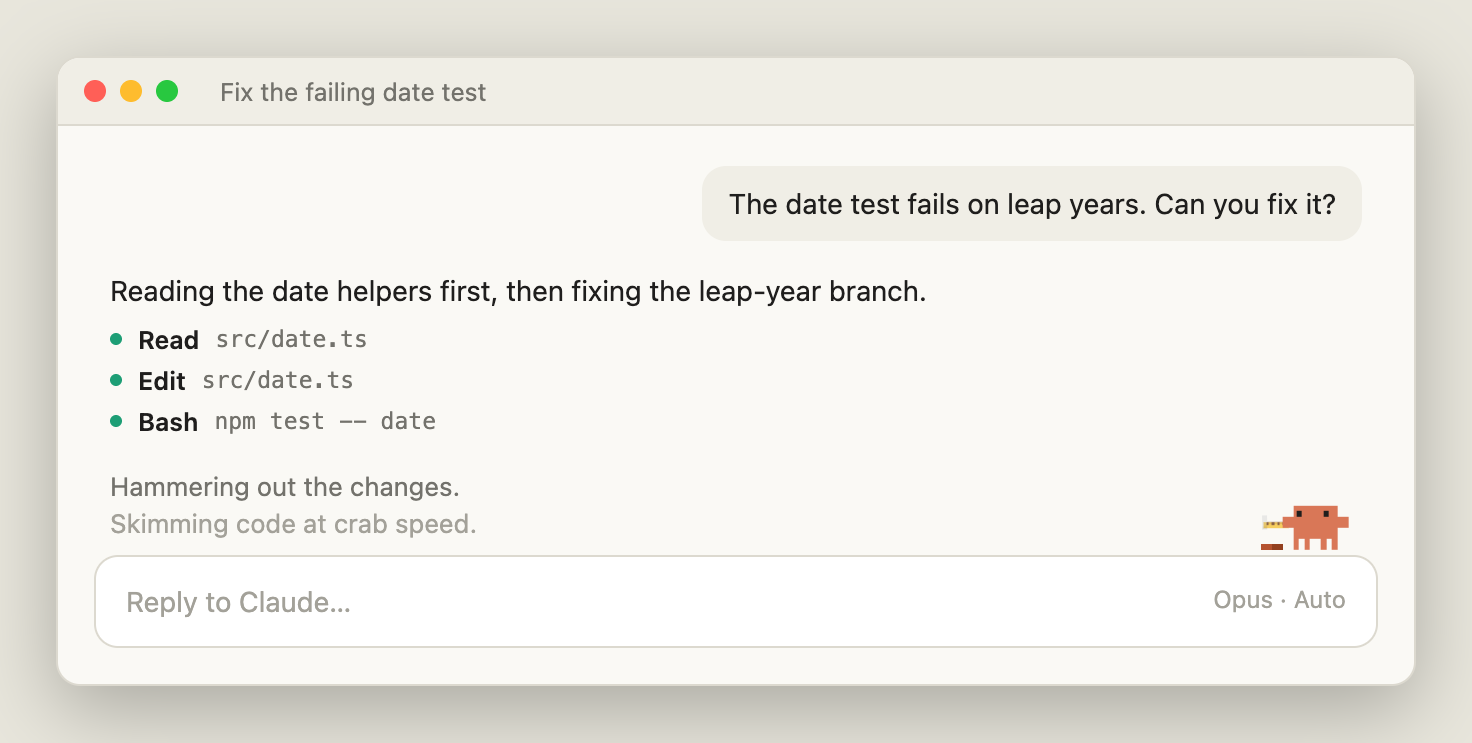
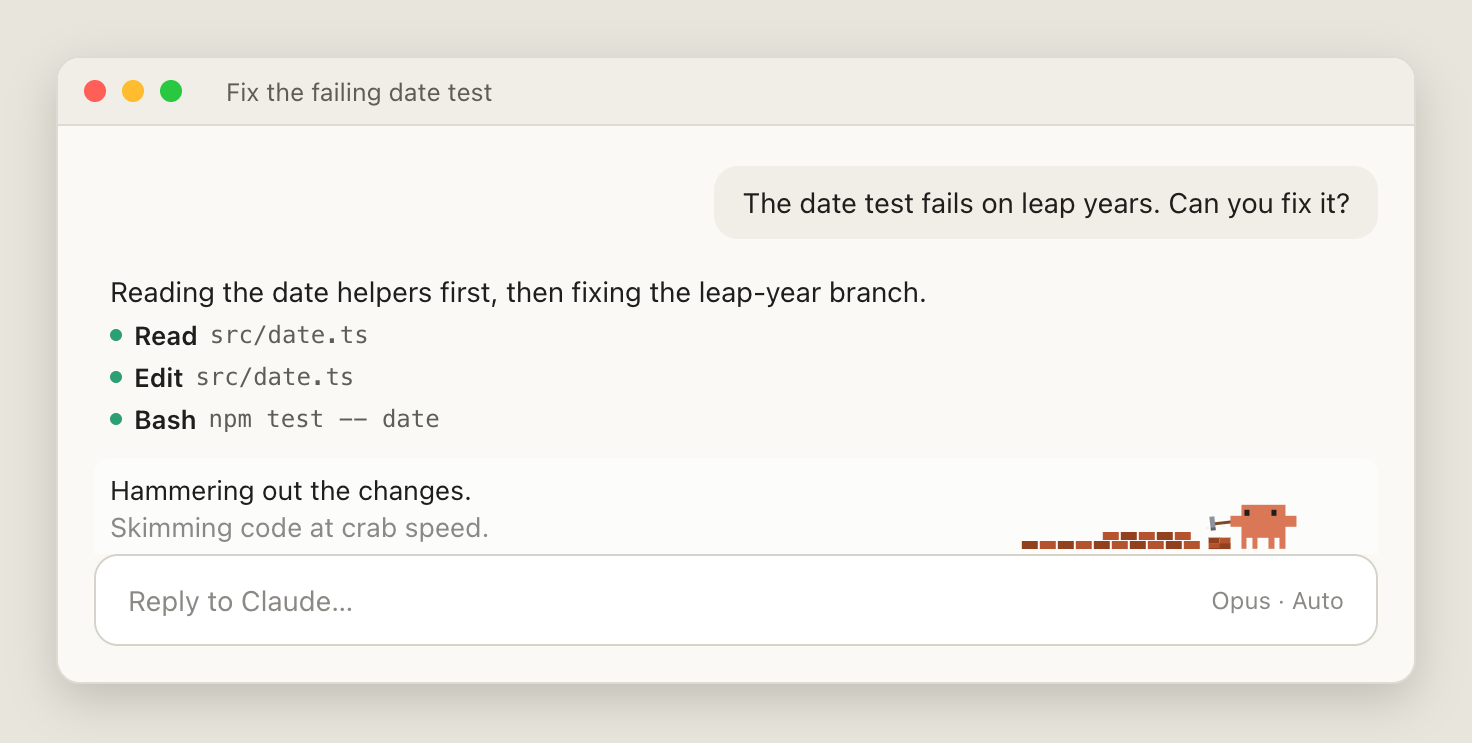
README shots for 0.9.5: the crab on its stage, two-tone caption
The hero is an animated PNG again (80 frames): think, read, build,
tests pass, done, walking between spots. App shots show the stage and
the newest caption line in full colour. Rendered from hooks/art.ts.

diff --git a/README.md b/README.md
@@ -5,7 +5,7 @@ out what Claude is doing.** It reads with a magnifier, hammers while files chang
 tests pass and dozes off when you step away. It works in the Claude Code desktop app and in the
 terminal, in light and dark themes, and it uses **0 tokens**.
 
-![Crab Buddy cycling through moods above the prompt: thinking, reading with a magnifier, hammering, a green check for passing tests, and done. A caption on the left scrolls one-liners such as 'Skimming code at crab speed.' and 'All green. Happy crab.'](docs/hero.png)
+![Crab Buddy walking across its stage above the prompt: thinking, reading with a magnifier, hammering while a brick wall grows, a green check for passing tests, and done, leaving footprints between spots. A caption on the left scrolls one-liners, the newest such as 'All green. Happy crab.' in full colour and the one before dimmer under it](docs/hero.png)
 
 ```bash
 claude plugin marketplace add pvjbuilds/crab-buddy
@@ -20,7 +20,7 @@ Start a new session and the crab is there.
 
 | Dark theme | Light theme |
 |---|---|
-| ![Claude Code desktop app, dark theme: the crab hammers at the bottom right of the band above the prompt box, with the caption 'Hammering out the changes.' and 'Skimming code at crab speed.' below it.](docs/app-dark.png) | ![Claude Code desktop app, light theme: the same crab and caption on the app's light background.](docs/app-light.png) |
+| ![Claude Code desktop app, dark theme: the crab hammers on the right half of the band above the prompt box, laying a brick wall as it goes. The caption on the left shows 'Hammering out the changes.' in full colour and 'Skimming code at crab speed.' dimmer below it.](docs/app-dark.png) | ![Claude Code desktop app, light theme: the same crab and caption on the app's light background.](docs/app-light.png) |
 
 ### Terminal
 
@@ -91,8 +91,8 @@ The crab shows in sessions started after an install or update.
 
 - **Other plugins' status lines move into the crab's band,** so they show in one place instead
   of piling up in the footer. Turn Crab Buddy off and they go back to the footer.
-- **The caption gives way.** With the crab alone it shows two lines; next to other plugins'
-  lines it shows one.
+- **The caption always shows two lines.** The newest in full text colour, the one before it
+  dimmer, whether or not other plugins' lines sit beside it.
 - **In the terminal, a theme change shows in the next session.** The terminal theme is read
   when a session starts.
 - **The band is tuned for 100% app zoom.** At other zoom levels the app may leave a thin line at
